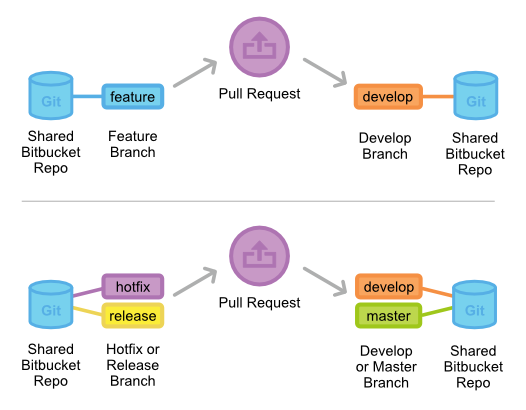
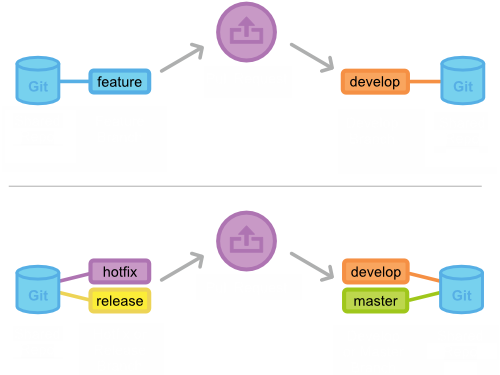
90% complete

diff --git a/index.html b/index.html
@@ -54,6 +54,14 @@
                 
                     
                         
+    <section data-background="img/luke.jpg" ></section>
+
+
+                    
+                    
+                
+                    
+                        
     <section data-markdown="slides/distributed.md"></section>
 
 
@@ -161,22 +169,6 @@
                 
                     
                         
-    <section data-background-transition="slide" data-transition="fade" data-background="darkcyan" data-markdown="slides/everything-is-local.md"></section>
-
-
-                    
-                    
-                
-                    
-                        
-    <section data-background-transition="slide" data-transition="none" data-background="darkcyan" data-markdown="slides/everything-is-local-2.md"></section>
-
-
-                    
-                    
-                
-                    
-                        
     <section data-background="img/stage.jpg" data-markdown="slides/staging-area.md"></section>
 
 
@@ -185,7 +177,23 @@
                 
                     
                         
-    <section data-markdown="slides/staging-area-2.md"></section>
+    <section data-background-transition="slide" data-transition="fade" data-background="#800" data-markdown="slides/everything-is-local.md"></section>
+
+
+                    
+                    
+                
+                    
+                        
+    <section data-background-transition="slide" data-transition="none" data-background="#800" data-markdown="slides/everything-is-local-2.md"></section>
+
+
+                    
+                    
+                
+                    
+                        
+    <section data-background-transition="slide" data-transition="fade" data-background="#800" data-markdown="slides/staging-area-2.md"></section>
 
 
                     
@@ -194,6 +202,14 @@
                     
                         
     <section data-markdown="slides/tools.md"></section>
+
+
+                    
+                    
+                
+                    
+                        
+    <section data-markdown="slides/gitk.md"></section>
 
 
                     
@@ -247,6 +263,31 @@
                     
                     
                 
+                    
+                    
+                        <section>
+                            
+                                
+    <section data-transition="linear" data-background="img/darth-vader.jpg" ></section>
+
+
+                            
+                                
+    <section data-transition="linear" data-background="img/darth-vader-blurred.jpg" data-markdown="slides/questions.md"></section>
+
+
+                            
+                        </section>
+                    
+                
+                    
+                        
+    <section data-background="#414a5e" data-markdown="slides/info.md"></section>
+
+
+                    
+                    
+                
             </div>
 
         </div>
@@ -266,8 +307,16 @@
                 theme: Reveal.getQueryHash().theme, // available themes are in /css/theme
                 transition: Reveal.getQueryHash().transition || 'default', // default/cube/page/concave/zoom/linear/fade/none
 
+                multiplex: {
+                    secret: '13992310747055551338', // Obtained from the socket.io server.
+                    id: '35cabb402a65218e', // Obtained from socket.io server
+                    url: 'revealjs.jit.su:80' // Location of socket.io server
+                },
+
                 // Optional libraries used to extend on reveal.js
                 dependencies: [
+                    { src: '//cdnjs.cloudflare.com/ajax/libs/socket.io/0.9.10/socket.io.min.js', async: true },
+                    { src: 'bower_components/reveal.js/plugin/multiplex/master.js', async: true },
                     { src: 'bower_components/reveal.js/lib/js/classList.js', condition: function() { return !document.body.classList; } },
                     { src: 'bower_components/reveal.js/plugin/markdown/marked.js', condition: function() { return !!document.querySelector( '[data-markdown]' ); } },
                     { src: 'bower_components/reveal.js/plugin/markdown/markdown.js', condition: function() { return !!document.querySelector( '[data-markdown]' ); } },

diff --git a/css/source/theme.scss b/css/source/theme.scss
@@ -55,3 +55,19 @@ $heading1TextShadow: 0 1px 0 #ccc, 0 2px 0 #c9c9c9, 0 3px 0 #bbb, 0 4px 0 #b9b9b
 
 // See ../../bower_components/reveal.js/css/theme/README.md
 // for further explanations on how reveal.js themes work.
+.reveal section img.no-border {
+  background: transparent;
+  border: none;
+  box-shadow: none;
+}
+
+.reveal section img.round {
+  background: transparent;
+  border: 4px solid #e3e2e1;
+  border-radius: 9999px;
+  box-shadow: none;
+}
+
+.reveal section img.expand {
+  width: 90%;
+}

diff --git a/css/theme.css b/css/theme.css
@@ -146,3 +146,17 @@ body {
  *********************************************/
 .reveal .slide-number {
   color: #13daec; }
+
+.reveal section img.no-border {
+  background: transparent;
+  border: none;
+  box-shadow: none; }
+
+.reveal section img.round {
+  background: transparent;
+  border: 4px solid #e3e2e1;
+  border-radius: 9999px;
+  box-shadow: none; }
+
+.reveal section img.expand {
+  width: 90%; }

diff --git a/slides/index.md b/slides/index.md
@@ -1,11 +1,3 @@
 
-Git Init
-=========
-![LogoGeek](img/geeklabs_fdo_negro.png)
-<!-- From the terminal, pop in: -->
-
-<!--   ```yo reveal:slide "Slide Title"``` -->
-<!-- Available options:
-
- ```--markdown --attributes --notes```
- -->
+# Git Init
+<img src="img/geeklabs_fdo_negro.png" alt="logo geek" class="no-border">

diff --git a/slides/info.md b/slides/info.md
@@ -1,0 +1,8 @@
+##  Thank you!
+<img src="img/wil.png" alt="wil" class="round">
+
+[@wazaraki](http://twitter.com/wazaraki)
+
+[http://wazaraki.github.io](http://wazaraki.github.io)
+
+

diff --git a/slides/everything-is-local-2.md b/slides/everything-is-local-2.md
@@ -1,3 +1,3 @@
-##  Fetch & Merge (Pull)
+###  Fetch & Merge (Pull)
 
-![local](img/everything-local2.png)
+<img src="img/everything-local2.png" alt="local2" class="no-border">

diff --git a/slides/distributed-3.md b/slides/distributed-3.md
@@ -1,3 +1,3 @@
-#### Example workflow
+### Example workflow
 
-![workflow](img/integration-workflow.png)
+<img src="img/integration-workflow.png" alt="wf" class="no-border">

diff --git a/slides/distributed.md b/slides/distributed.md
@@ -1,5 +1,3 @@
-####Centralized vs Distributed
-![distributed](img/death-star.jpg)
 ![distributed](img/x-wings.jpg)
-
-
+###### vs
+![distributed](img/death-star.jpg)

diff --git a/slides/everything-is-local.md b/slides/everything-is-local.md
@@ -1,3 +1,3 @@
-##  Commit & Push
+###  Commit & Push
 
-![local](img/everything-local.png)
+<img src="img/everything-local.png" alt="local1" class="no-border">

diff --git a/slides/pull-request-2.md b/slides/pull-request-2.md
@@ -1,1 +1,1 @@
-![](img/gitflow-workflow-pull-request.png)
+<img src="img/gitflow-workflow-pull-request.png" alt="pullrequest" class="no-border expand">

diff --git a/slides/git-clone.md b/slides/git-clone.md
@@ -1,3 +1,3 @@
-##  Cloning is fun
+###  Cloning is fun
 
-![](img/clones.jpg)
+<img src="img/clones.jpg" alt="clone dance" class="no-border">

diff --git a/slides/distributed-2.md b/slides/distributed-2.md
@@ -1,2 +1,1 @@
-
-![repo2repo](img/repotorepocollab.png)
+<img src="img/repotorepocollab.png" alt="repo2repo" class="no-border expand">
